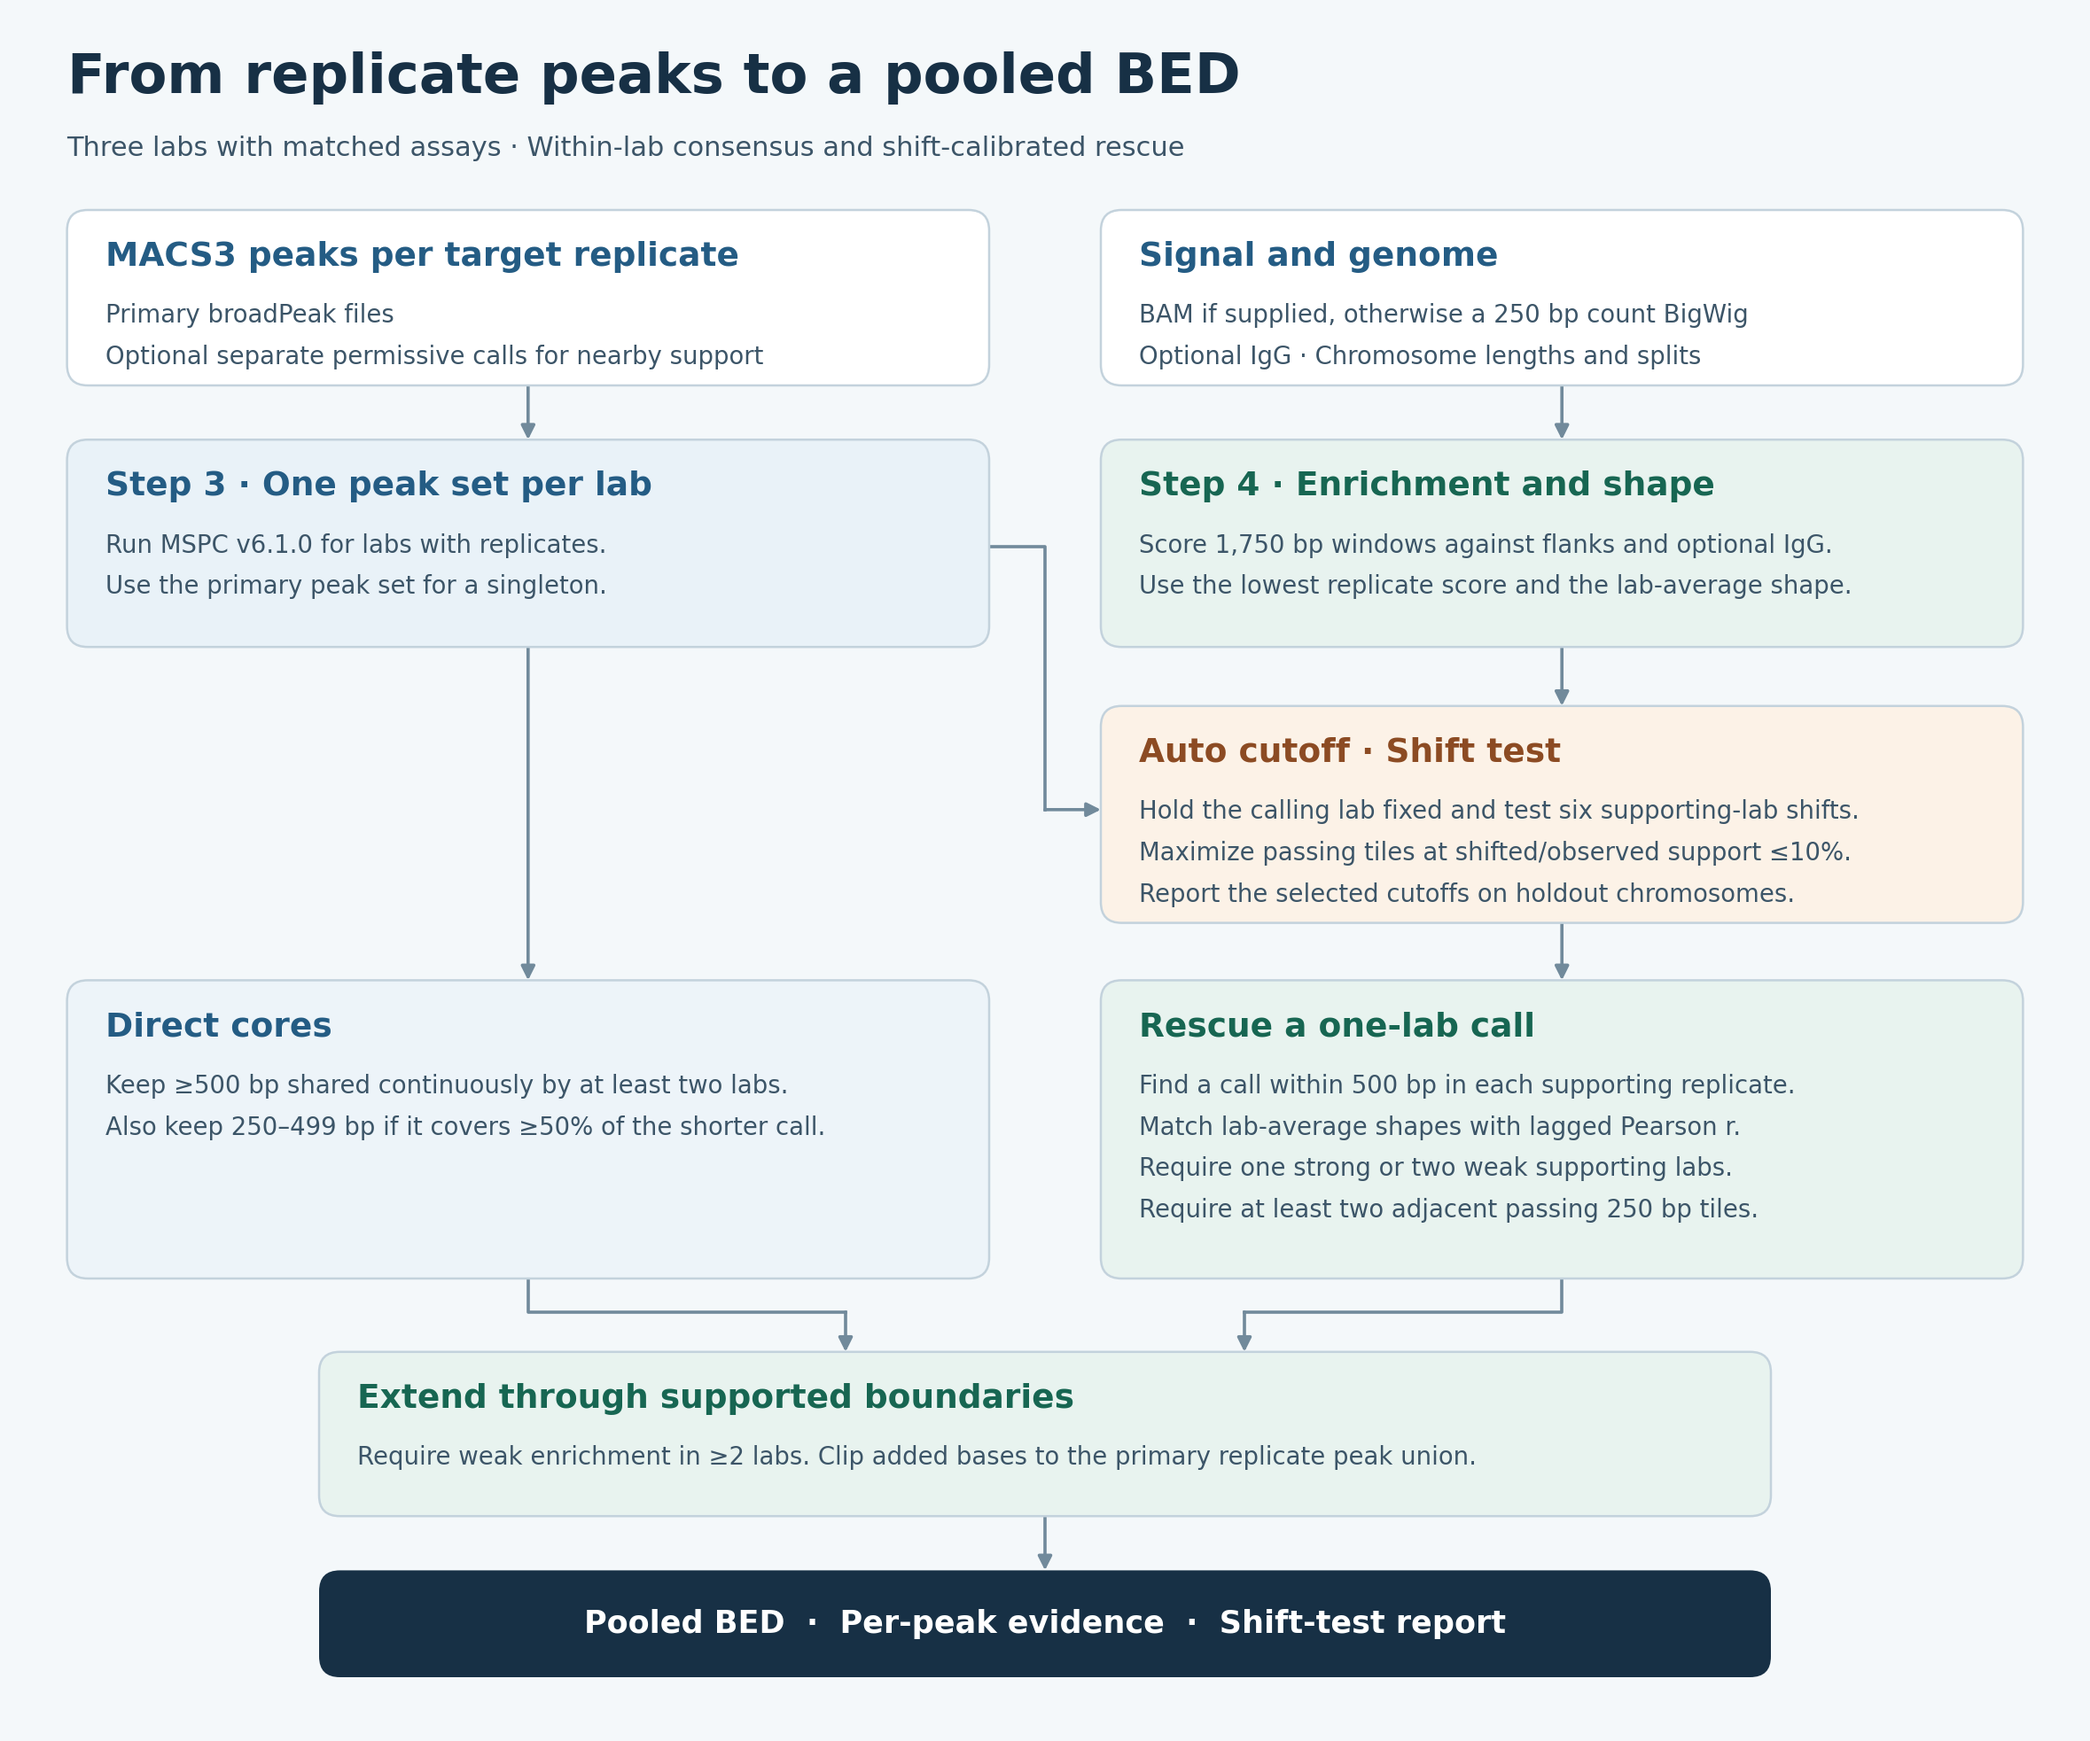
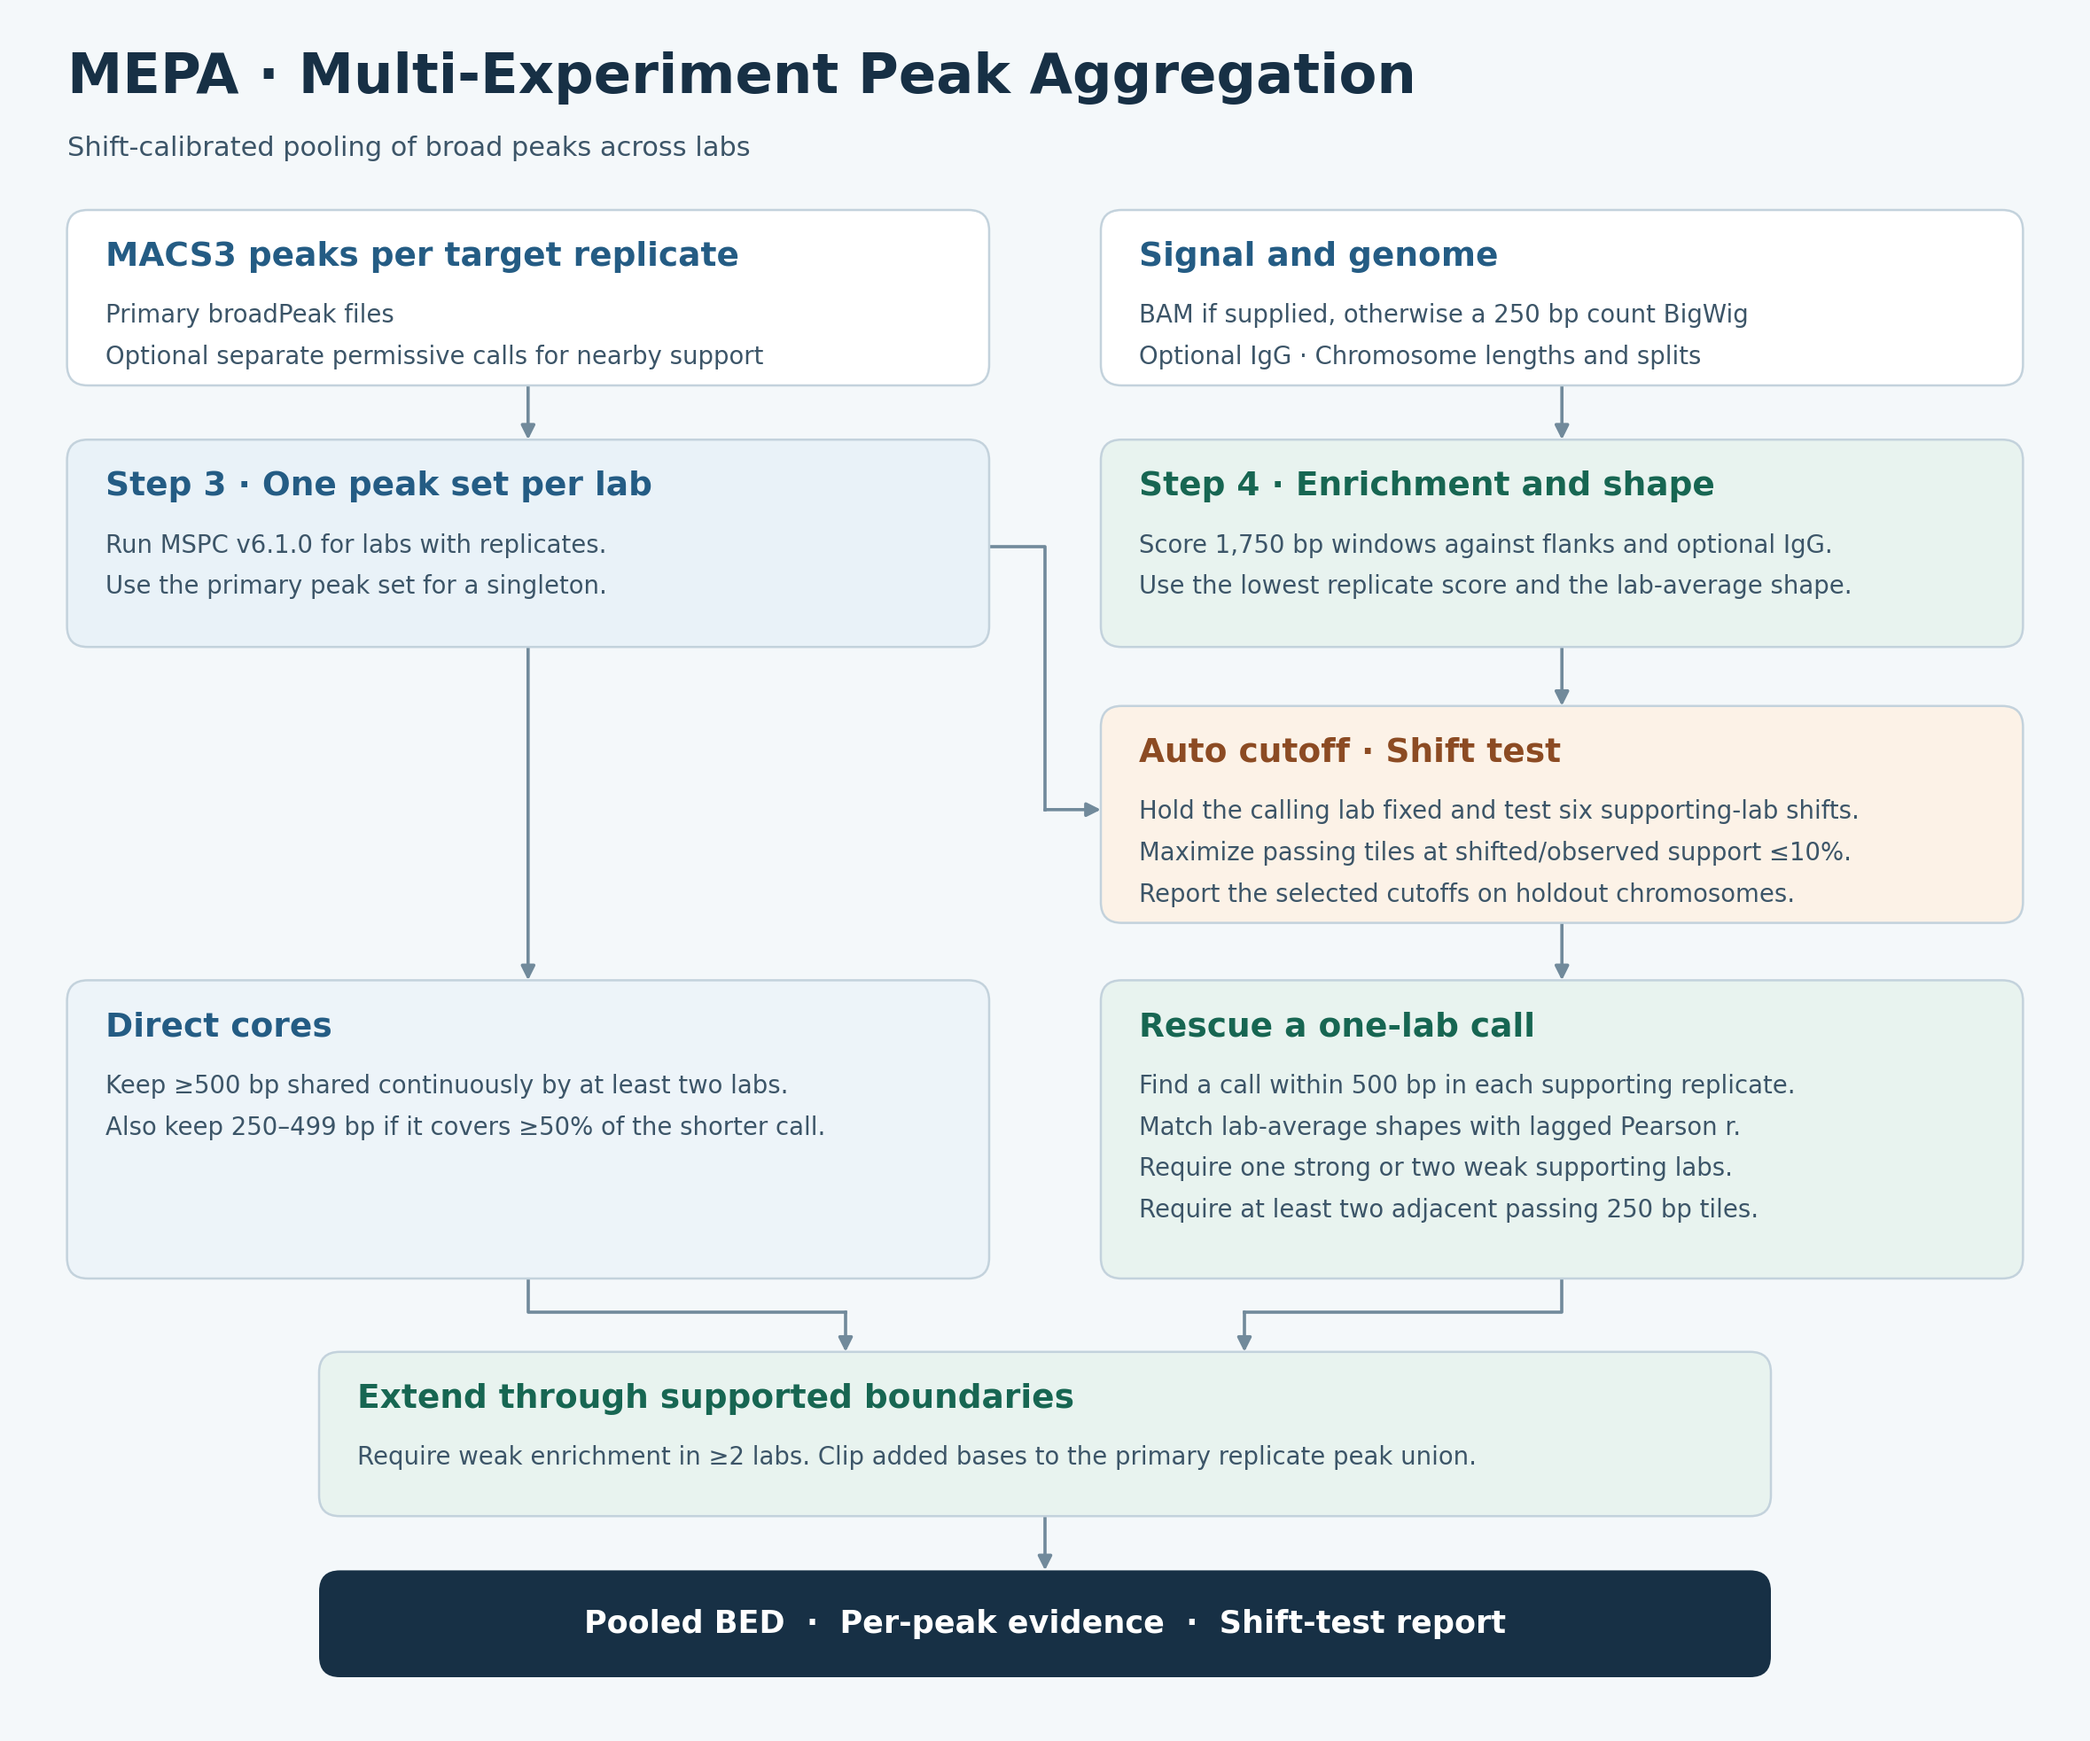
Name the pipeline MEPA and expose the mepa-peaks command

Changed region(s): [[0.031, 0.031, 0.6811, 0.0931]]

diff --git a/src/pooled_peaks/cli.py b/src/pooled_peaks/cli.py
@@ -53,8 +53,10 @@ def check_inputs(labs, lengths, executable):
 
 
 def build_parser():
-    parser = argparse.ArgumentParser(prog="confident-pooled-peaks",
-                                     description="Pool broad peaks from exactly three labs, starting from MACS3 calls.")
+    parser = argparse.ArgumentParser(
+        prog="mepa-peaks",
+        description="MEPA (Multi-Experiment Peak Aggregation) pools broad peaks from three labs.",
+    )
     stages = parser.add_subparsers(dest="stage", required=True)
     commands = {
         "check": "Check peak files, signal headers, and MSPC version",
@@ -138,11 +140,12 @@ def dispatch(args):
 
 
 def main(argv=None):
-    args = build_parser().parse_args(argv)
+    parser = build_parser()
+    args = parser.parse_args(argv)
     try:
         dispatch(args)
     except (ValueError, OSError, RuntimeError, subprocess.SubprocessError) as exc:
-        print(f"confident-pooled-peaks: {exc}", file=sys.stderr)
+        print(f"{parser.prog}: {exc}", file=sys.stderr)
         return 1
     return 0
 

diff --git a/tests/test_pipeline.py b/tests/test_pipeline.py
@@ -19,7 +19,7 @@ from pooled_peaks.midpoints import cache_sample, count_bam, count_bigwig, export
 from pooled_peaks.pooling import run_pooling
 
 
-MSPC = shutil.which(os.environ.get("CONFIDENT_PEAKS_MSPC", "mspc"))
+MSPC = shutil.which(os.environ.get("MEPA_MSPC", "mspc"))
 
 
 def make_bam(path, lengths, fragments):

diff --git a/README.md b/README.md
@@ -1,8 +1,10 @@
-# Confident pooled peaks
+# MEPA (Multi-Experiment Peak Aggregation)
+
+*Shift-calibrated pooling of broad peaks across labs.*
 
 Build a pooled broad-peak BED from three labs profiling the same mark in comparable samples. Step 3 builds within-lab consensus with MSPC v6.1.0. Step 4 combines lab-level peak calls, rescues loci with reproducible signal, and selects rescue thresholds using a within-chromosome shift test. A lab with one replicate contributes its full primary MACS3 peak set.
 
-![Workflow from MACS3 broadPeak and BAM or midpoint-count BigWig through MSPC, shift calibration, and pooled BED export](docs/workflow.png)
+![MEPA workflow from MACS3 broadPeak and BAM or midpoint-count BigWig through MSPC, shift calibration, and pooled BED export](docs/workflow.png)
 
 ## Install
 
@@ -12,7 +14,7 @@ Use Python 3.11 or newer. Install this repository in a virtual environment. Down
 python -m venv .venv
 source .venv/bin/activate
 python -m pip install .
-confident-pooled-peaks --help
+mepa-peaks --help
 ```
 
 ## Inputs
@@ -32,7 +34,7 @@ Step 3 needs the primary peaks. Step 4 needs one signal source per sample. If bo
 A count BigWig stores the **integer number of fragment midpoints per 250 bp tile**, anchored at chromosome position 0. The terminal tile can be shorter and omitted tiles count as zero. The library depth is the sum over the selected chromosomes. Use the following command to generate a compatible track, keeping MAPQ 0. Ordinary CPM coverage tracks contain a different quantity and need the original BAM for this conversion.
 
 ```bash
-confident-pooled-peaks export-midpoints \
+mepa-peaks export-midpoints \
   --genome genome.tsv --bam data/A_rep1.bam --output data/A_rep1.midpoints.bw
 ```
 
@@ -51,13 +53,13 @@ The included mm39 example uses odd autosomes for calibration, even autosomes oth
 Run an input check, then stop after Step 3 to inspect the per-lab BEDs. Use a new output directory for each stage.
 
 ```bash
-confident-pooled-peaks check --samples samples.tsv --genome genome.tsv --mspc /path/to/mspc
+mepa-peaks check --samples samples.tsv --genome genome.tsv --mspc /path/to/mspc
 
-confident-pooled-peaks step3 \
+mepa-peaks step3 \
   --samples samples.tsv --genome genome.tsv --mspc /path/to/mspc \
   --outdir results/step3_mspc
 
-confident-pooled-peaks step4 \
+mepa-peaks step4 \
   --samples samples.tsv --genome genome.tsv --step3-dir results/step3_mspc \
   --outdir results/step4_pool --workers 4 --target-shift-ratio 0.10
 ```
@@ -65,7 +67,7 @@ confident-pooled-peaks step4 \
 To run both stages in one invocation, give `run` a parent directory. The stage outputs go into `step3_mspc/` and `step4_pool/` within it.
 
 ```bash
-confident-pooled-peaks run \
+mepa-peaks run \
   --samples samples.tsv --genome genome.tsv --mspc /path/to/mspc \
   --outdir results --workers 4
 ```
@@ -140,5 +142,5 @@ The Step 3 and Step 4 commands expect existing peak files. The reference study u
 A replay of the reference mm39 analysis reproduced all 43,309 pooled peak coordinates, the per-peak evidence lengths, and all 1,152 calibration grid rows. The included synthetic test runs MSPC and the shift calibration on three labs and compares the BED, evidence and cutoffs obtained from BAMs with those from their exported BigWigs.
 
 ```bash
-CONFIDENT_PEAKS_MSPC=/path/to/mspc python -m unittest discover -s tests -v
+MEPA_MSPC=/path/to/mspc python -m unittest discover -s tests -v
 ```
